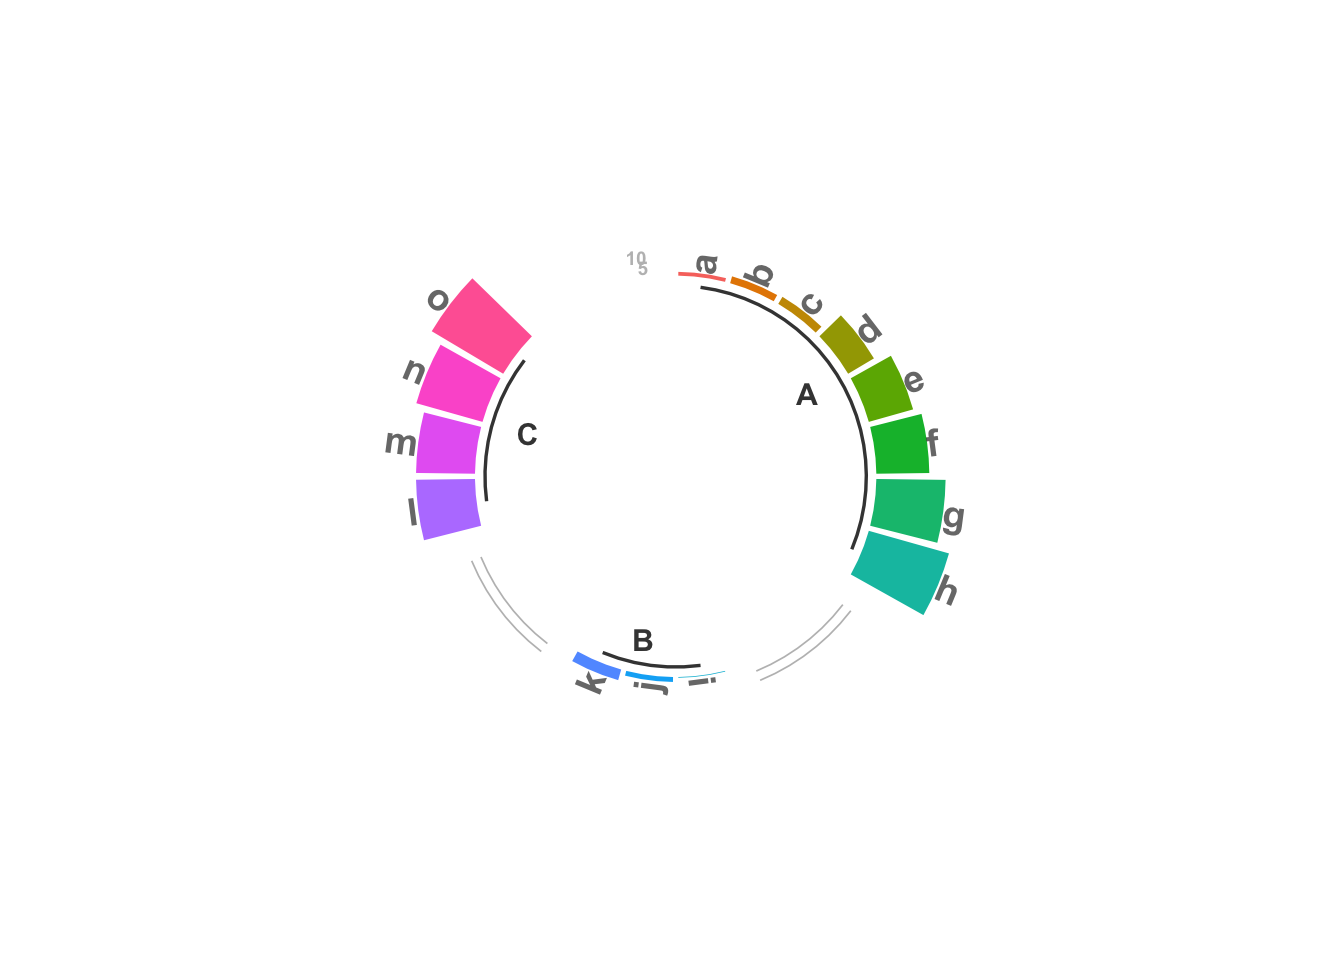
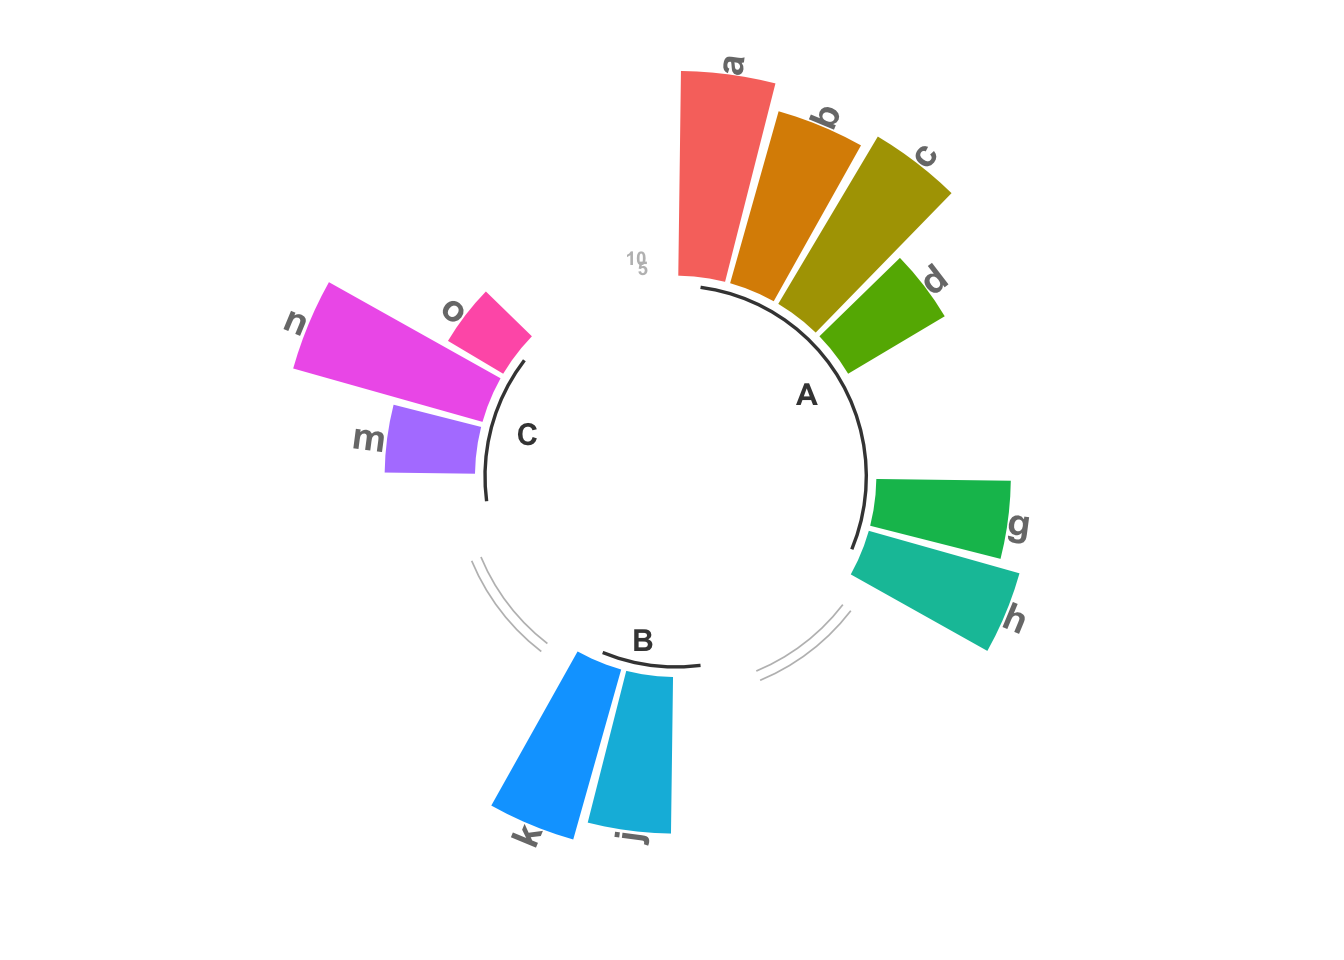
up

Changed region(s): [[0.5, 0.0625, 0.7812, 0.6875], [0.2188, 0.2812, 0.375, 0.5625], [0.3438, 0.6875, 0.5312, 0.875]]

diff --git a/content/blog/2020-02-26-circular-colum-plot.html b/content/blog/2020-02-26-circular-colum-plot.html
@@ -11,27 +11,12 @@ tags:
 
 
 
-<pre class="r"><code>data=data.frame(individual=c(&#39;a&#39;,&#39;b&#39;,&#39;c&#39;,&#39;d&#39;,&#39;e&#39;,&#39;f&#39;,&#39;g&#39;,&#39;h&#39;,&#39;i&#39;,&#39;j&#39;,&#39;k&#39;,&#39;l&#39;,&#39;m&#39;,&#39;n&#39;,&#39;o&#39;),
-                value =c(0.001897,
-                         0.0035427,
-                         0.0040915,
-                         0.014953,
-                         0.022925,
-                         0.026393,
-                         0.0345,
-                         0.041492,
-                         0.0003807,
-                         0.0024592,
-                         0.0054992,
-                         0.02936,
-                         0.02936,
-                         0.034247,
-                         0.041408
-                ),
+<pre class="r"><code>#构造data
+data=data.frame(individual=c(&#39;a&#39;,&#39;b&#39;,&#39;c&#39;,&#39;d&#39;,&#39;e&#39;,&#39;f&#39;,&#39;g&#39;,&#39;h&#39;,&#39;i&#39;,&#39;j&#39;,&#39;k&#39;,&#39;l&#39;,&#39;m&#39;,&#39;n&#39;,&#39;o&#39;),
+                value =c(102,89,97,56,145,192,67,
+                         78,121, 78,88,130,45,98,
+                         32),
                 group =c(&quot;A&quot;, &quot;A&quot;, &quot;A&quot;, &quot;A&quot;, &quot;A&quot;, &quot;A&quot;, &quot;A&quot;, &quot;A&quot;, &quot;B&quot;, &quot;B&quot;, &quot;B&quot;, &quot;C&quot;, &quot;C&quot;, &quot;C&quot;, &quot;C&quot;))
-
-
-data$value &lt;- data$value*1000
 
 empty_bar &lt;- 3
 to_add &lt;- data.frame( matrix(NA, empty_bar*nlevels(data$group), ncol(data)) )
@@ -43,7 +28,7 @@ data$id &lt;- seq(1, nrow(data))
 
 label_data &lt;- data
 number_of_bar &lt;- nrow(label_data)
-angle &lt;- 90 - 360 * (label_data$id-0.5) /number_of_bar     # I substract 0.5 because the letter must have the angle of the center of the bars. Not extreme right(1) or extreme left (0)
+angle &lt;- 90 - 360 * (label_data$id-0.5) /number_of_bar     
 label_data$hjust &lt;- ifelse( angle &lt; -90, 1, 0)
 label_data$angle &lt;- ifelse(angle &lt; -90, angle+180, angle)
 
@@ -85,6 +70,6 @@ ggplot2::ggplot(data, aes(x=as.factor(id), y=value, fill=individual))+
   # Add base line information
   geom_segment(data=base_data, aes(x = start, y = -5, xend = end, yend = -5), colour = &quot;black&quot;, alpha=0.8, size=0.6 , inherit.aes = FALSE )  +
   geom_text(data=base_data, aes(x = title, y = -18, label=group), hjust=c(1,1,0), colour = &quot;black&quot;, alpha=0.8, size=4, fontface=&quot;bold&quot;, inherit.aes = FALSE)</code></pre>
-<pre><code>## Warning: Removed 9 rows containing missing values (position_stack).</code></pre>
-<pre><code>## Warning: Removed 9 rows containing missing values (geom_text).</code></pre>
+<pre><code>## Warning: Removed 13 rows containing missing values (position_stack).</code></pre>
+<pre><code>## Warning: Removed 13 rows containing missing values (geom_text).</code></pre>
 <p><img src="/blog/2020-02-26-circular-colum-plot_files/figure-html/unnamed-chunk-1-1.png" width="672" /></p>
